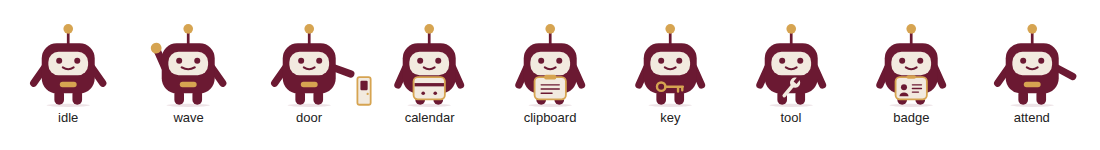
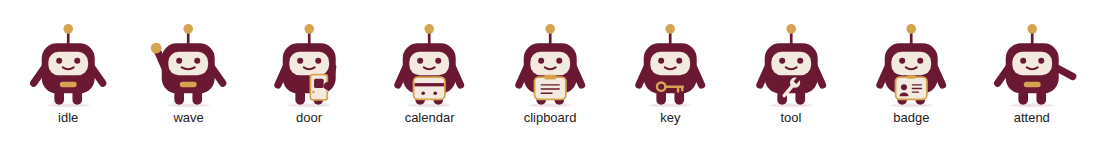
fix(mascot): make Free Rooms pose hold the door
The door used to stand beside the figure with the arm pointing at it. It is now held in front of the body like the calendar and
clipboard: the right arm hangs to the door's edge and a gripping hand, drawn on top and turning with the same arm angle, closes on the frame.

Changed region(s): [[0.2473, 0.4533, 0.34, 0.72], [0.2473, 0.4, 0.3091, 0.4267]]

diff --git a/public/css/mascot.css b/public/css/mascot.css
@@ -38,33 +38,35 @@
 
 /* Pose parameters: clockwise degrees for each arm about its shoulder, and a tiny glance. Everything not listed stays at rest.
    idle = arms out at the sides (the reference). Holding poses bring the hands in a little; wave raises the left arm (with the
-   gold hand), door points the right arm at the door, attend is a neutral half-raised arm. */
+   gold hand), door hangs the right arm down so its hand grips the held door, attend is a neutral half-raised arm. */
 .rb-mascot { --rbm-duration: 180ms; --rbm-ease: cubic-bezier(.4, 0, .2, 1); --rbm-l: 35deg; --rbm-r: -35deg; --rbm-ex: 0px; --rbm-smile: 1; }
 .rb-mascot[data-pose="attend"] { --rbm-r: -62deg; }
 .rb-mascot[data-pose="wave"] { --rbm-l: 156deg; --rbm-smile: 1.18; }
-.rb-mascot[data-pose="door"] { --rbm-r: -70deg; --rbm-ex: 1.6px; }
 .rb-mascot:is([data-pose="calendar"], [data-pose="clipboard"], [data-pose="key"], [data-pose="tool"], [data-pose="badge"]) { --rbm-l: 24deg; --rbm-r: -24deg; }
+.rb-mascot[data-pose="door"] { --rbm-l: 24deg; --rbm-r: 15deg; }
 
 .rbm-arm--l { transform: rotate(var(--rbm-l)); transform-origin: 31px 80px; }
 .rbm-arm--r { transform: rotate(var(--rbm-r)); transform-origin: 109px 80px; }
 .rbm-eyes { transform: translateX(var(--rbm-ex)); }
 .rbm-mouth { transform: scaleX(var(--rbm-smile)); transform-origin: 70px 77px; }
-.rbm-prop { opacity: 0; }
+.rbm-prop, .rbm-grip { opacity: 0; }
 .rbm-pill { opacity: 1; }
 
 .rb-mascot[data-pose="wave"] .rbm-hand-ball,
 .rb-mascot[data-pose="door"] .rbm-prop--door,
+.rb-mascot[data-pose="door"] .rbm-grip,
 .rb-mascot[data-pose="calendar"] .rbm-prop--calendar,
 .rb-mascot[data-pose="clipboard"] .rbm-prop--clipboard,
 .rb-mascot[data-pose="key"] .rbm-prop--key,
 .rb-mascot[data-pose="tool"] .rbm-prop--tool,
 .rb-mascot[data-pose="badge"] .rbm-prop--badge { opacity: 1; }
-.rb-mascot:is([data-pose="key"], [data-pose="tool"]) .rbm-pill { opacity: 0; }
+.rb-mascot:is([data-pose="door"], [data-pose="key"], [data-pose="tool"]) .rbm-pill { opacity: 0; }
 
 /* Only transform and opacity move, and only for a short moment when the pose changes. The feet, body, head and footer never
    move, so the figure stays planted, and there is no idle movement at all. */
 .rbm-arm, .rbm-eyes, .rbm-mouth { transition: transform var(--rbm-duration) var(--rbm-ease); }
 .rbm-prop, .rbm-hand-ball, .rbm-pill { transition: opacity var(--rbm-duration) var(--rbm-ease); }
+.rbm-grip { transition: transform var(--rbm-duration) var(--rbm-ease), opacity var(--rbm-duration) var(--rbm-ease); }
 @media (prefers-reduced-motion: no-preference) {
   /* One friendly wave (two swings) when the wave pose is chosen by hovering; mascot.js sets data-ready only after the first
      frame, so arriving on the Home page does not wave on its own. */
@@ -77,5 +79,5 @@
 }
 /* Reduced motion: poses still change (they are useful), but instantly and without any arm movement. */
 @media (prefers-reduced-motion: reduce) {
-  .rbm-arm, .rbm-eyes, .rbm-mouth, .rbm-prop, .rbm-hand-ball, .rbm-pill { transition: none; animation: none; }
+  .rbm-arm, .rbm-eyes, .rbm-mouth, .rbm-prop, .rbm-grip, .rbm-hand-ball, .rbm-pill { transition: none; animation: none; }
 }

diff --git a/resources/views/components/ui/mascot.blade.php b/resources/views/components/ui/mascot.blade.php
@@ -8,20 +8,12 @@
      Poses: idle, attend (neutral), wave, door, calendar, clipboard, key, tool, badge. Hidden from assistive technology,
      never focusable, never announced.
      Geometry (viewBox 200x140, character centred on x=100 via the translate): body 26..114 x 40..123, shoulders (31,80)
-     and (109,80), arm length 32, feet on y=142. Props sit in front of the belly (x 44..96, y 96..133), except the door,
-     which stands to the right on the ground. --}}
+     and (109,80), arm length 32, feet on y=142. Props sit in front of the belly (x 44..96, y 96..133); the door is held a little to the right (x 72..100). --}}
 <div class="rb-mascot" data-rb-mascot data-pose="{{ $pose }}" aria-hidden="true">
   <div class="rb-mascot__stage">
     <svg class="rb-mascot__art" viewBox="0 6 200 140" width="200" height="140" focusable="false" aria-hidden="true">
       <g transform="translate(30 0)">
         <ellipse class="rbm-shadow" cx="70" cy="143" rx="36" ry="2.6"/>
-
-        {{-- Door the figure points at (pose: door) --}}
-        <g class="rbm-prop rbm-prop--door">
-          <rect class="rbm-cream rbm-gold-edge" x="150" y="96" width="22" height="46" rx="3.5"/>
-          <rect class="rbm-maroon" x="155" y="102" width="12" height="16" rx="2"/>
-          <circle class="rbm-gold" cx="167" cy="124" r="1.9"/>
-        </g>
 
         {{-- Arms are drawn first so the body overlaps their roots; each pivots on its shoulder --}}
         <g class="rbm-arm rbm-arm--l">
@@ -47,7 +39,14 @@
         <line class="rbm-aerial" x1="70" y1="16" x2="70" y2="41"/>
         <circle class="rbm-gold" cx="70" cy="16" r="8"/>
 
-        {{-- Held props (in front of the belly) --}}
+        {{-- Held props (in front of the belly). The door is held by its right edge: the arm hangs down to it and a hand drawn on top grips the frame. --}}
+        <g class="rbm-prop rbm-prop--door">
+          <rect class="rbm-cream rbm-gold-edge" x="72" y="92" width="28" height="42" rx="4"/>
+          <rect class="rbm-maroon" x="78" y="99" width="16" height="15" rx="2.5"/>
+          <circle class="rbm-gold" cx="77" cy="121" r="2.3"/>
+        </g>
+        {{-- The hand that grips the door: the right arm's tip, repeated in front of the door and turning with the arm (same angle variable), so it never detaches --}}
+        <g class="rbm-arm rbm-arm--r rbm-grip"><circle class="rbm-maroon" cx="109" cy="112" r="6.5"/></g>
         <g class="rbm-prop rbm-prop--calendar">
           <rect class="rbm-cream" x="44" y="96" width="52" height="37" rx="7"/>
           <rect class="rbm-maroon" x="45.5" y="106" width="49" height="5.5"/>

diff --git a/tests/Feature/Frontend/MascotBrandTest.php b/tests/Feature/Frontend/MascotBrandTest.php
@@ -96,7 +96,9 @@ final class MascotBrandTest extends TestCase
         $this->assertSame(2, substr_count($svg, 'cy="69" r="5"'), 'two simple round eyes');
         $this->assertSame(1, substr_count($svg, 'class="rbm-gold rbm-pill"'), 'one gold chest accent');
         $this->assertSame(1, substr_count($svg, 'class="rbm-aerial"'), 'one short antenna');
-        $this->assertSame(2, substr_count($svg, 'class="rbm-arm '), 'two arms, posed by angle only');
+        $this->assertSame(3, substr_count($svg, 'class="rbm-arm '), 'two arms, posed by angle only, plus the door-gripping hand that turns with the right arm');
+        $this->assertStringContainsString('rbm-arm rbm-arm--r rbm-grip', $svg);
+        $this->assertMatchesRegularExpression('/\\.rb-mascot\\[data-pose="door"\\] \\.rbm-grip/', $css, 'the gripping hand only appears in the door pose');
         $this->assertSame(6, substr_count($svg, 'class="rbm-prop rbm-prop--'), 'six props and nothing else is duplicated per pose');
         // The character is centred on x=100 of a 200-wide artwork (translate 30 + centre 70), so centring the figure centres the robot.
         $this->assertStringContainsString('viewBox="0 6 200 140"', $svg);
